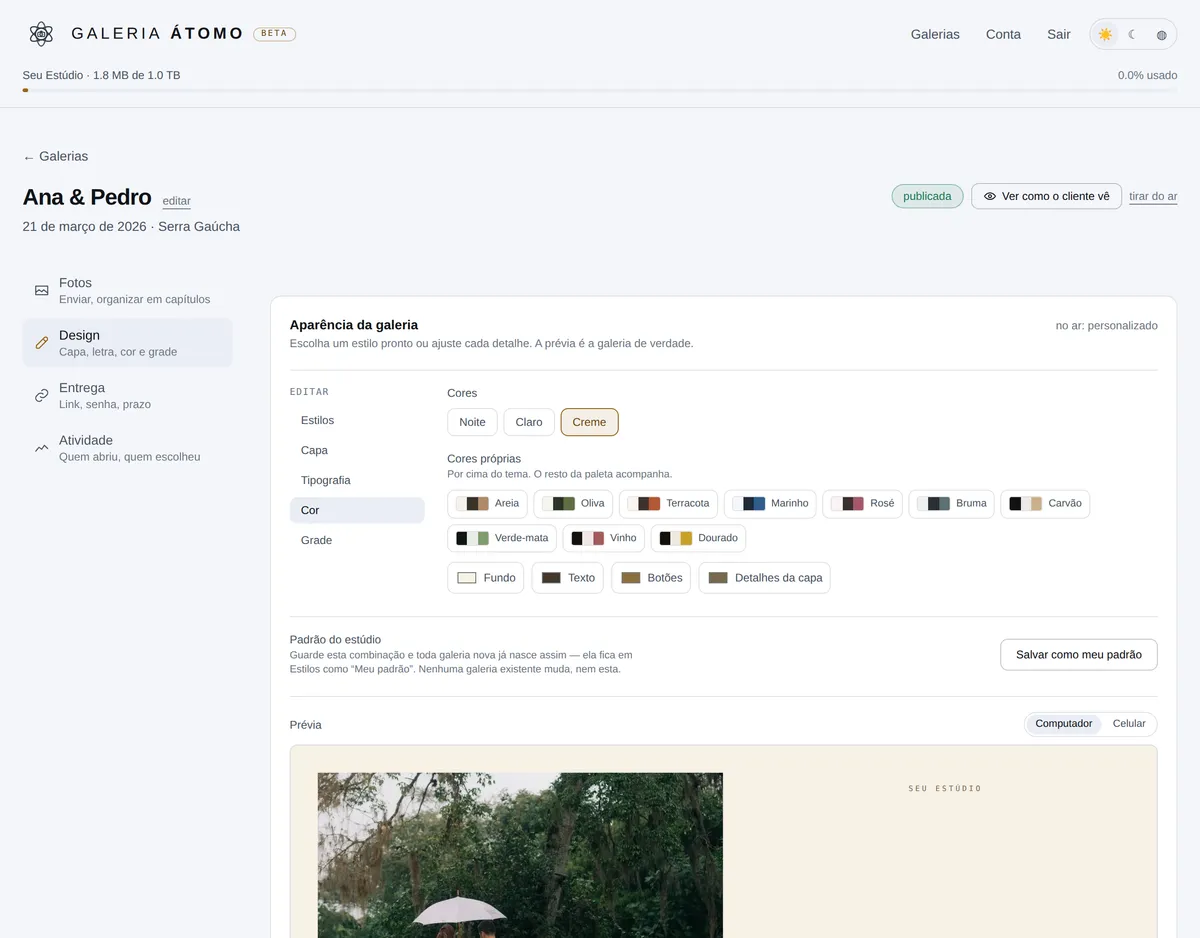
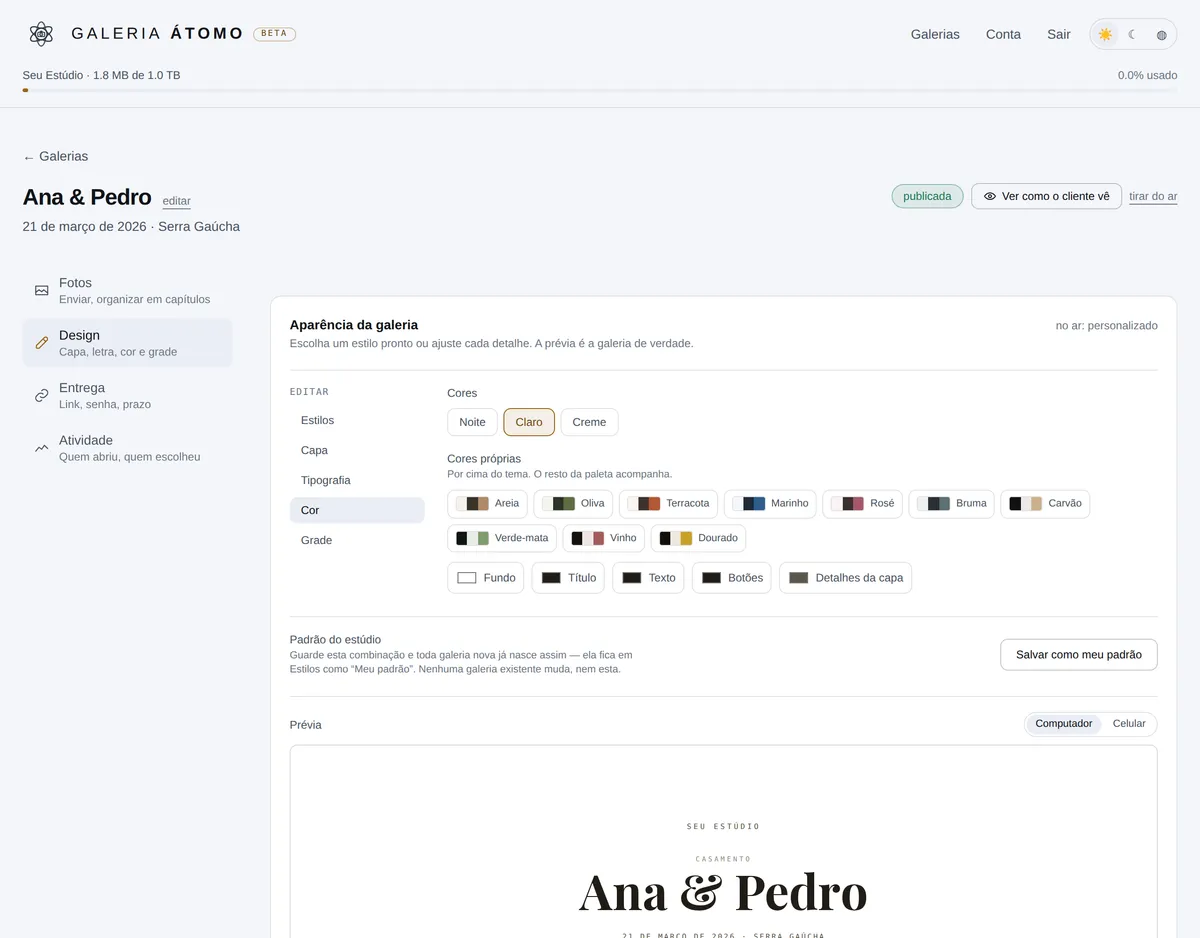
Home e editor: frase do Como funciona, exemplo no estilo atual, cor do título, local editável
Pedidos do Felipe de 28/09/2026, depois de ver a home publicada:

- "Não gosto do 'da pasta ao cliente'." O título da seção Como funciona
  passa a nomear os três passos que vêm abaixo: "Suba. Personalize.
  Entregue." Briefing e leitura crítica registram a troca.

- "O modelo de galeria que aparece aqui não é o mais bonito [...] como
  Carol e Juan são fotógrafos atuais, eles querem algo mais parecido com
  o estilo deles." O exemplo Ana & Pedro (print "Entregue", celular da
  home, hero) era capa convite, creme e cursiva — o código de "casamento
  premium" que a estratégia pede para evitar (§12). Passa a ser o desenho
  das galerias deles: capa jornal (fundo claro, etiqueta "Casamento",
  Playfair forte, foto grande abaixo), grade Colunas bem junta. Rótulo:
  "Natural e contemporânea". Prints refeitos; o script agora marca a capa
  escolhida, sem a qual a jornal não mostra a foto.

- "Poderia ter mais uma opção de cores: título [...] o título de uma cor
  e o restante dos textos em um tom mais escuro." Cores próprias ganham
  "Título": pinta o nome na capa, fora da paleta (não mexe nos tons
  derivados); sem ela, o título herda o texto como sempre. Conferido numa
  galeria na bancada: título #7a5c3e, texto #1f1f1f. Teste novo em
  testar-letrinhas-da-capa, provado mordendo.

- "Depois que cria a galeria não tem como adicionar o 'local'
  novamente." Tinha: é o mesmo campo, que a criação chama de "Local ou
[…]

diff --git a/src/config/home-demonstracao.ts b/src/config/home-demonstracao.ts
@@ -245,8 +245,26 @@ export const IDENTIDADES: Identidade[] = [
     }),
   },
   {
+    /*
+     * ── NO DESENHO DE QUEM FOTOGRAFA HOJE (28/09/2026) ─────────────────────
+     *
+     * Era capa convite, creme e letra cursiva (Great Vibes). Felipe, sobre o
+     * print da entrega e o celular da home: "o modelo de galeria que aparece
+     * aqui não é o mais bonito [...] como Carol e Juan são fotógrafos atuais,
+     * eles querem algo mais parecido com o estilo deles". A cursiva sobre
+     * creme é justamente o código de "casamento premium" que a estratégia de
+     * marca pede para evitar (§12).
+     *
+     * O desenho novo é o das galerias que eles entregam: a capa jornal ("a
+     * referência do Sirius" em `galeria-capa.tsx`) — fundo claro, a etiqueta
+     * "Casamento" em cima, o nome grande numa serifada forte e a foto grande
+     * logo abaixo —, como na galeria Júlia & Gustavo que o Felipe mostrou.
+     * Grade "Colunas", a que o Juan usa nas entregas: na ordem, sem cortar
+     * foto e sem fileira curta no fim, bem juntas. É esta identidade que
+     * aparece no print "Entregue", no celular da home e no hero.
+     */
     id: "classica",
-    rotulo: "Natural e clássica",
+    rotulo: "Natural e contemporânea",
     titulo: "Ana & Pedro",
     slug: "ana-e-pedro",
     data: "21 de março de 2026",
@@ -254,13 +272,16 @@ export const IDENTIDADES: Identidade[] = [
     capa: "foto3",
     fotos: ["foto7", "foto6", "foto5", "foto2", "foto8", "foto3", "foto4", "foto1"],
     aparencia: lerAparencia({
-      capa: "convite",
-      tema: "creme",
-      tipografia: "manuscrita",
-      grade: "linhas",
-      densidade: "normal",
-      canto: "suave",
-      alturaCapa: "media",
+      capa: "jornal",
+      tema: "claro",
+      tipografia: "playfair",
+      peso: "forte",
+      rotulo: "Casamento",
+      grade: "colunas",
+      densidade: "compacta",
+      canto: "reto",
+      alinhamento: "centro",
+      alturaCapa: "cheia",
     }),
   },
   {

diff --git a/src/components/editor-aparencia.tsx b/src/components/editor-aparencia.tsx
@@ -178,6 +178,11 @@ function BarraDoTitulo({ ap, mudar }: PecaProps) {
  */
 const ROTULOS_DE_COR = [
   { chave: "fundo", variavel: "--g-fundo", titulo: "Fundo" },
+  /* O título vem antes do texto porque é o primeiro que se lê na capa, e
+     porque a razão de existir dele é ser DIFERENTE do texto (Felipe,
+     28/09/2026): lado a lado, a escolha fica óbvia. Parte da cor do texto,
+     que é a que ele herda até alguém mexer. */
+  { chave: "titulo", variavel: "--g-texto", titulo: "Título" },
   { chave: "texto", variavel: "--g-texto", titulo: "Texto" },
   { chave: "destaque", variavel: "--g-destaque", titulo: "Botões" },
   /* Fica por último porque é a mais fina das quatro: as três de cima pintam a
@@ -257,7 +262,10 @@ function CoresProprias({ ap, mudar }: PecaProps) {
 
       <div className="mt-2.5 flex flex-wrap items-center gap-2">
         {ROTULOS_DE_COR.map(({ chave, variavel, titulo }) => {
-          const atual = ap.cores?.[chave] ?? doTema[variavel];
+          /* O título herda o texto: sem cor própria, o seletor dele começa na
+             cor do texto de agora, própria ou do tema. */
+          const atual =
+            ap.cores?.[chave] ?? (chave === "titulo" ? ap.cores?.texto : undefined) ?? doTema[variavel];
           const propria = Boolean(ap.cores?.[chave]);
           return (
             <label

diff --git a/src/app/page.tsx b/src/app/page.tsx
@@ -513,12 +513,15 @@ export default async function Home() {
         </div>
       </section>
 
-      {/* ── 4 · da pasta ao cliente ─────────────────────────────────────── */}
+      {/* ── 4 · como funciona ──────────────────────────────────────────────
+          O título era "Da pasta ao cliente." (briefing §8); Felipe pediu outra
+          frase em 28/09/2026. O título agora nomeia os três passos que vêm
+          logo abaixo. */}
       <section id="como-funciona" className="scroll-mt-16 border-y border-[var(--h-linha)] bg-white py-24 lg:py-32">
         <div className="mx-auto max-w-7xl px-4 sm:px-6">
           <Revelar className="max-w-2xl">
             <Marcador>Como funciona</Marcador>
-            <h2 className={`${TITULO_SECAO} mt-4`}>Da pasta ao cliente.</h2>
+            <h2 className={`${TITULO_SECAO} mt-4`}>Suba. Personalize. Entregue.</h2>
             <p className={`${TEXTO_SECAO} mt-5`}>
               Um fluxo intuitivo para transformar um trabalho pronto em uma entrega pronta.
             </p>

diff --git a/src/config/aparencia.ts b/src/config/aparencia.ts
@@ -359,6 +359,18 @@ export interface CoresProprias {
    * passa a ser a do tamanho da letra, que já as separa.
    */
   detalhe?: string;
+  /**
+   * A cor do NOME na capa, separada do texto.
+   *
+   * Felipe, 28/09/2026: "poderia ter mais uma opção de cores: título. O título
+   * ser separado do texto. Pois eu queria o título de uma cor e o restante dos
+   * textos em um tom mais escuro".
+   *
+   * Pelo mesmo motivo do `detalhe`, fica fora da paleta: pinta uma palavra só,
+   * o nome do casal, e não entra na derivação dos outros tons. Sem ela, o
+   * título continua herdando a cor do texto, como sempre.
+   */
+  titulo?: string;
 }
 
 export interface Aparencia {
@@ -625,7 +637,7 @@ function lerCores(bruto: unknown): CoresProprias | null {
   if (!bruto || typeof bruto !== "object") return null;
   const o = bruto as Record<string, unknown>;
   const cores: CoresProprias = {};
-  for (const chave of ["fundo", "texto", "destaque", "detalhe"] as const) {
+  for (const chave of ["fundo", "texto", "destaque", "detalhe", "titulo"] as const) {
     const v = o[chave];
     if (typeof v !== "string") continue;
     const t = v.toLowerCase();

diff --git a/src/components/galeria-capa.tsx b/src/components/galeria-capa.tsx
@@ -75,6 +75,9 @@ export function GaleriaCapa({ dados, aparencia }: { dados: DadosCapa; aparencia:
   /* A cor escolhida vale para as três letrinhas de texto; sem ela, cada uma
      mantém o tom derivado que sempre teve. Ver `CoresProprias.detalhe`. */
   const corDetalhe = aparencia.cores?.detalhe;
+  /* O nome do casal pode ter cor própria, separada do texto. Sem ela, herda a
+     cor do texto como sempre herdou. Ver `CoresProprias.titulo`. */
+  const corTitulo = aparencia.cores?.titulo;
 
   /*
    * A logo, quando existe, SUBSTITUI o nome em texto — não acompanha.
@@ -291,6 +294,7 @@ export function GaleriaCapa({ dados, aparencia }: { dados: DadosCapa; aparencia:
              mínimo e escreve o nome uma letra por linha. Os dois não convivem. */
           className={`${linhas || quebrarPalavra ? "" : "text-balance"} ${alinharBloco}`}
           style={{
+            ...(corTitulo ? { color: corTitulo } : {}),
             fontFamily: fonteTitulo,
             fontWeight: peso,
             lineHeight: aparencia.tipografia === "manuscrita" ? 1.2 : 1.05,

diff --git a/src/components/editor-galeria.tsx b/src/components/editor-galeria.tsx
@@ -85,12 +85,16 @@ export function EditorGaleria({
       <input type="hidden" name="galeria_id" value={galeriaId} />
       <div className="flex flex-col gap-3">
         <Campo label="Título" name="titulo" defaultValue={titulo} required maxLength={120} />
+        {/* O MESMO NOME DA CRIAÇÃO (28/09/2026). Felipe: "depois que cria a
+            galeria não tem como adicionar o local novamente" — tinha: é este
+            campo, só que a criação o chama de "Local ou descrição" e aqui ele
+            se chamava "Subtítulo". Campo com dois nomes parece dois campos. */}
         <Campo
-          label="Subtítulo"
+          label="Local ou descrição"
           name="subtitulo"
           defaultValue={subtitulo ?? ""}
           maxLength={160}
-          placeholder="opcional"
+          placeholder="Serra Gaúcha"
         />
         <Campo label="Data do evento" name="data_evento" type="date" defaultValue={dataISO ?? ""} />
 

diff --git a/docs/home-leitura-critica.md b/docs/home-leitura-critica.md
@@ -88,7 +88,7 @@ abaixo foi conferida no código desta data.*
 | 1 | Hero | eyebrow, headline e texto do briefing; três galerias reais em identidades diferentes, uma na frente, alternando devagar | `GaleriaCapa` + `GaleriaGrade` |
 | 2 | Uma galeria. Várias identidades. (`#exemplos`) | quatro galerias completas (capa + grade), com a combinação real de cada uma escrita embaixo | `PRESETS`/`OPCOES` |
 | 3 | Seu trabalho. Sua marca. Seu endereço. | uma galeria dentro de um navegador com `seuestudio.galeriaatomo.com.br`; o visitante troca capa, fonte e cor e ela muda na hora | opções reais do editor |
-| 4 | Da pasta ao cliente. (`#como-funciona`) | 01 Suba · 02 Personalize · 03 Entregue, cada um com a tela real | prints do painel + galeria |
+| 4 | Suba. Personalize. Entregue. (`#como-funciona`; era "Da pasta ao cliente.") | 01 Suba · 02 Personalize · 03 Entregue, cada um com a tela real | prints do painel + galeria |
 | 5 | Intuitiva para quem entrega. Intuitiva para quem recebe. | celular com a galeria rolando + a lista do que o cliente faz | componentes reais |
 | 6 | A seleção acontece dentro da própria galeria. | grade com corações marcando, contador "12 de 40", o painel da seleção | componentes reais + print |
 | 7 | Brasileira desde o começo. | quatro provas concretas + o complemento do beta | `planos.ts`, `marca.ts` |

diff --git a/docs/briefing-home.md b/docs/briefing-home.md
@@ -138,7 +138,8 @@ texto.
 
 ## 8. Fluxo de entrega
 
-- Headline: **Da pasta ao cliente.**
+- Headline: **Suba. Personalize. Entregue.** *(Era "Da pasta ao cliente."; trocada
+  a pedido do Felipe em 28/09/2026.)*
 - Subtexto: *Um fluxo intuitivo para transformar um trabalho pronto em uma
   entrega pronta.*
 
@@ -385,7 +386,7 @@ demonstração e confiança — a expressão tem de ser própria.
 ## 30. Hierarquia pedida
 
 Header → Hero → Uma galeria. Várias identidades. → Seu trabalho. Sua marca. Seu
-endereço. → Da pasta ao cliente. → Intuitiva para quem entrega/recebe. → A
+endereço. → Suba. Personalize. Entregue. → Intuitiva para quem entrega/recebe. → A
 seleção acontece dentro da própria galeria. → Brasileira desde o começo. →
 Cofre → Recursos → Foto + vídeo (só quando validado) → Respiro fotográfico →
 Planos → Três perguntas → Segurança → FAQ → CTA final → Footer.
